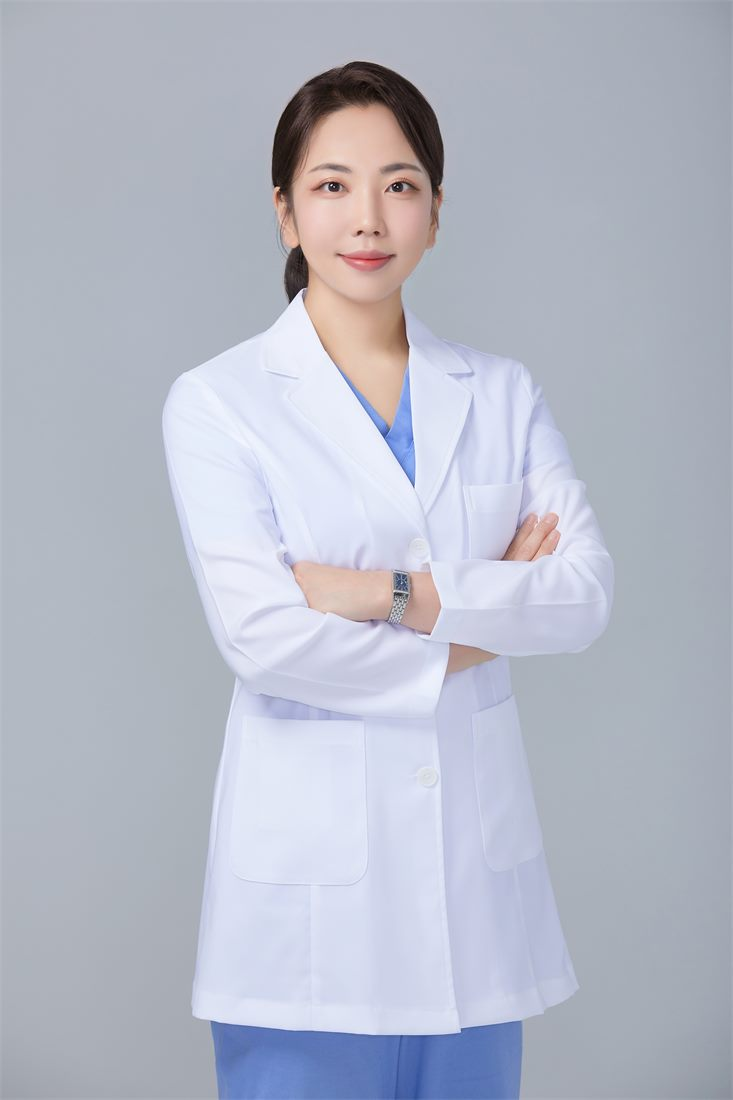
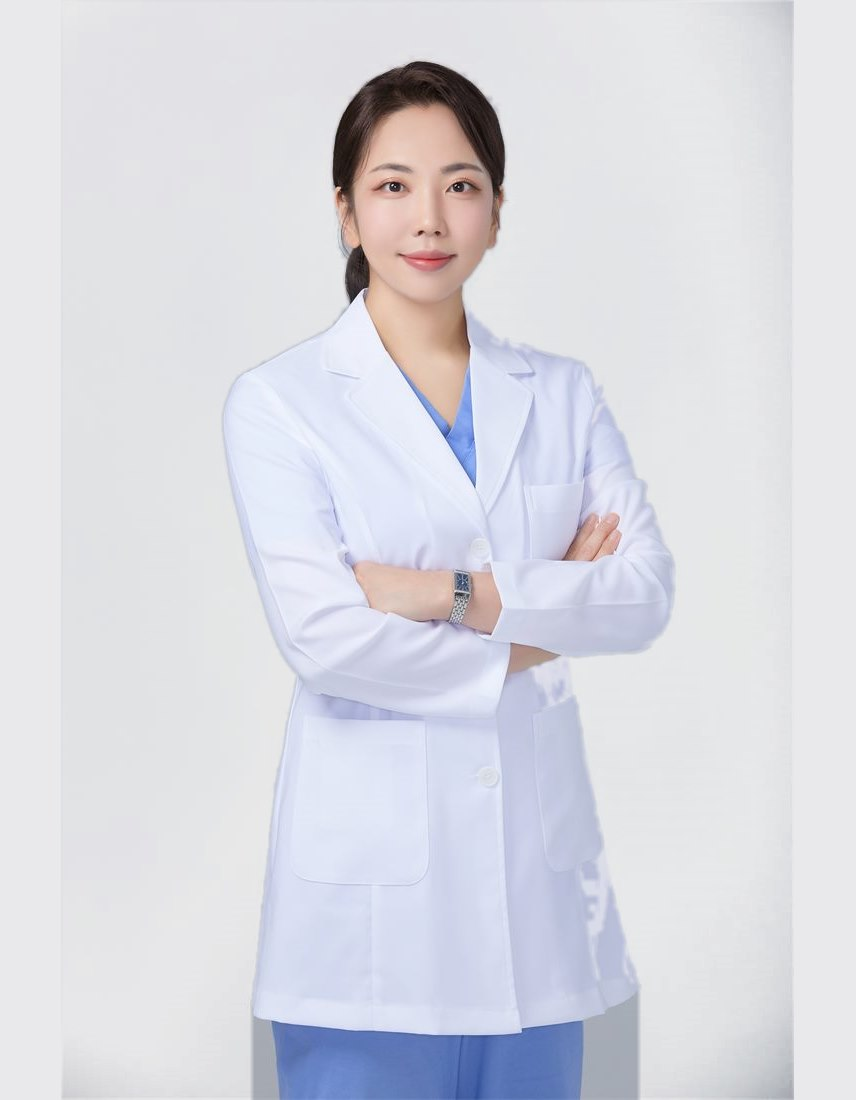
원장 사진 배경톤 통일 및 치료 카드 흰 배경으로 변경
- 민수연·정유한·오경진·강소진 배경을 밝은 중성톤(233,233,234)으로 통일
  배경보다 밝은 픽셀은 인물로 판정해 흰 가운·피부가 날아가지 않게 처리
- 4장 모두 856x1100(정확히 7:9)으로 맞춰 카드에서 잘리는 부분 제거
  정유한 원장 사진은 비율이 좁아 위아래 79px씩 잘리며 머리가 잘렸던 문제 해결
- 치료 방식 3개 카드(사율침·CO2레이저·엔디야그) 배경을 모두 흰색으로 통일
  흰 배경에 맞춰 본문·부제 글자색도 조정
- 바뀐 사진 크기에 맞춰 width/height 속성 갱신

diff --git a/index.html b/index.html
@@ -410,11 +410,11 @@
         </ul>
       </div>
 
-      <div class="rounded-2xl bg-point-soft p-7 border border-white/10 flex flex-col">
+      <div class="rounded-2xl bg-white text-point p-7 flex flex-col">
         <img src="assets/images/treatment-laser.png" alt="줌 핸드피스 CO2레이저 코트라 플러스" class="w-full rounded-xl mb-6 aspect-square object-cover" width="966" height="966" loading="lazy" decoding="async">
         <p class="text-gold font-bold text-sm tracking-wide">B. CO2 LASER</p>
-        <h3 class="text-xl font-bold mt-1">줌 핸드피스 CO2레이저<br><span class="text-base font-semibold text-white/80">(코트라 플러스)</span></h3>
-        <ul class="mt-4 space-y-2.5 text-sm text-white/80">
+        <h3 class="text-xl font-bold mt-1">줌 핸드피스 CO2레이저<br><span class="text-base font-semibold text-muted">(코트라 플러스)</span></h3>
+        <ul class="mt-4 space-y-2.5 text-sm text-muted">
           <li class="flex gap-2"><span class="text-gold shrink-0">●</span><span>병변의 깊이에 따라 세밀한 출력 조절 가능</span></li>
           <li class="flex gap-2"><span class="text-gold shrink-0">●</span><span>열 확산 범위가 좁게 제어돼 주변 조직 자극 최소화</span></li>
           <li class="flex gap-2"><span class="text-gold shrink-0">●</span><span>눈가 · 헤어라인 등 예민한 부위도 스팟 사이즈 조절로 세밀하게 시술 가능</span></li>
@@ -422,11 +422,11 @@
         </ul>
       </div>
 
-      <div class="rounded-2xl bg-point-soft p-7 border border-white/10 flex flex-col md:col-span-2 lg:col-span-1">
+      <div class="rounded-2xl bg-white text-point p-7 flex flex-col md:col-span-2 lg:col-span-1">
         <img src="assets/images/treatment-ndyag.jpg" alt="엔디야그 레이저" class="w-full rounded-xl mb-6 aspect-square object-cover" width="1042" height="700" loading="lazy" decoding="async">
         <p class="text-gold font-bold text-sm tracking-wide">C. ND:YAG LASER</p>
-        <h3 class="text-xl font-bold mt-1">엔디야그 레이저<br><span class="text-base font-semibold text-white/80">(제네시스 모드 + 멀티펄스 토닝 모드)</span></h3>
-        <ul class="mt-4 space-y-2.5 text-sm text-white/80">
+        <h3 class="text-xl font-bold mt-1">엔디야그 레이저<br><span class="text-base font-semibold text-muted">(제네시스 모드 + 멀티펄스 토닝 모드)</span></h3>
+        <ul class="mt-4 space-y-2.5 text-sm text-muted">
           <li class="flex gap-2"><span class="text-gold shrink-0">●</span><span>잡티를 제거한 부위의 재생과 회복을 위해 엔디야그 레이저를 사용한 치료를 병행합니다</span></li>
         </ul>
       </div>
@@ -725,7 +725,7 @@
         </div>
       </article>
       <article class="bg-white rounded-2xl overflow-hidden shadow-soft border border-line flex flex-col">
-        <img src="assets/images/doctor-min.jpg" alt="민수연 대표원장" class="w-full object-cover aspect-[7/9]" width="789" height="1100" loading="lazy" decoding="async">
+        <img src="assets/images/doctor-min.jpg" alt="민수연 대표원장" class="w-full object-cover aspect-[7/9]" width="856" height="1100" loading="lazy" decoding="async">
         <div class="p-6 flex-1 flex flex-col">
           <div class="flex items-center gap-2 flex-wrap">
             <h3 class="text-xl font-bold">민수연</h3>
@@ -738,7 +738,7 @@
         </div>
       </article>
       <article class="bg-white rounded-2xl overflow-hidden shadow-soft border border-line flex flex-col">
-        <img src="assets/images/doctor-jung.jpg" alt="정유한 대표원장" class="w-full object-cover aspect-[7/9]" width="733" height="1100" loading="lazy" decoding="async">
+        <img src="assets/images/doctor-jung.jpg" alt="정유한 대표원장" class="w-full object-cover aspect-[7/9]" width="856" height="1100" loading="lazy" decoding="async">
         <div class="p-6 flex-1 flex flex-col">
           <div class="flex items-center gap-2 flex-wrap">
             <h3 class="text-xl font-bold">정유한</h3>
@@ -751,7 +751,7 @@
         </div>
       </article>
       <article class="bg-white rounded-2xl overflow-hidden shadow-soft border border-line flex flex-col">
-        <img src="assets/images/doctor-oh.jpg" alt="오경진 대표원장" class="w-full object-cover aspect-[7/9]" width="826" height="1100" loading="lazy" decoding="async">
+        <img src="assets/images/doctor-oh.jpg" alt="오경진 대표원장" class="w-full object-cover aspect-[7/9]" width="856" height="1100" loading="lazy" decoding="async">
         <div class="p-6 flex-1 flex flex-col">
           <div class="flex items-center gap-2 flex-wrap">
             <h3 class="text-xl font-bold">오경진</h3>
@@ -763,7 +763,7 @@
         </div>
       </article>
       <article class="bg-white rounded-2xl overflow-hidden shadow-soft border border-line flex flex-col">
-        <img src="assets/images/doctor-kang.jpg" alt="강소진 대표원장" class="w-full object-cover aspect-[7/9]" width="941" height="1100" loading="lazy" decoding="async">
+        <img src="assets/images/doctor-kang.jpg" alt="강소진 대표원장" class="w-full object-cover aspect-[7/9]" width="856" height="1100" loading="lazy" decoding="async">
         <div class="p-6 flex-1 flex flex-col">
           <div class="flex items-center gap-2 flex-wrap">
             <h3 class="text-xl font-bold">강소진</h3>
